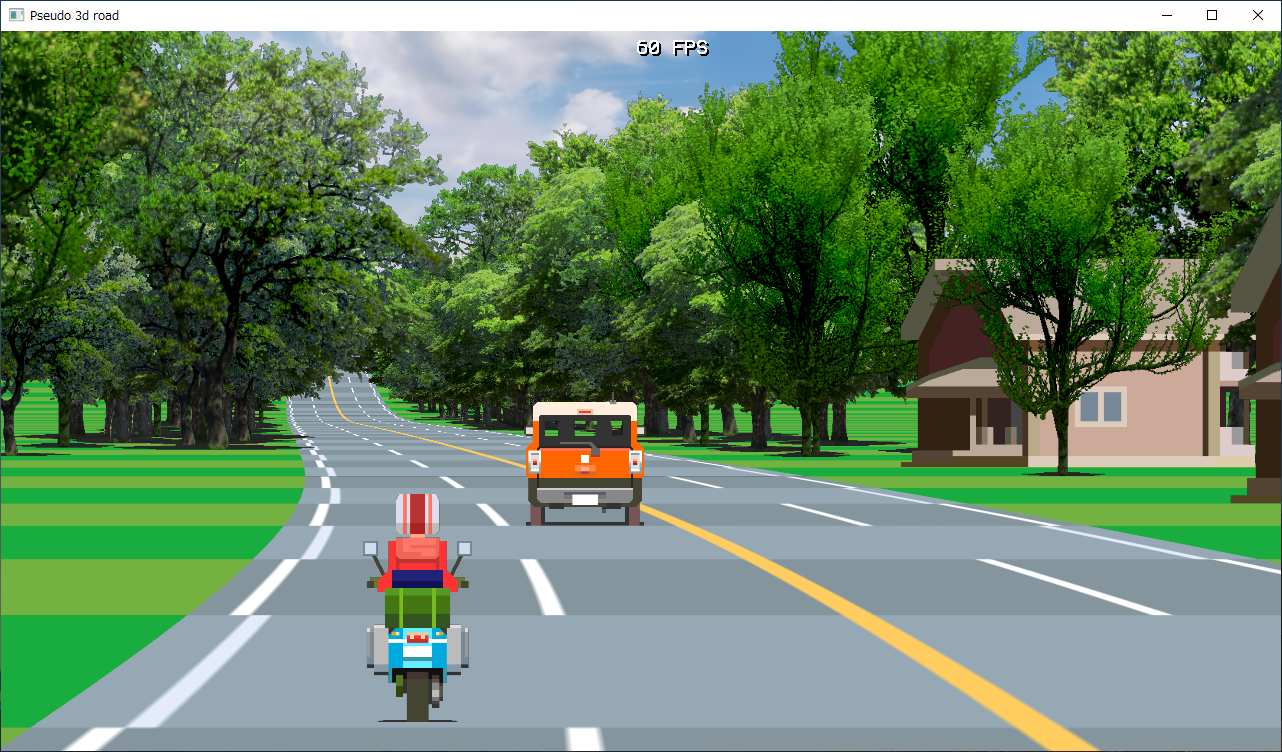
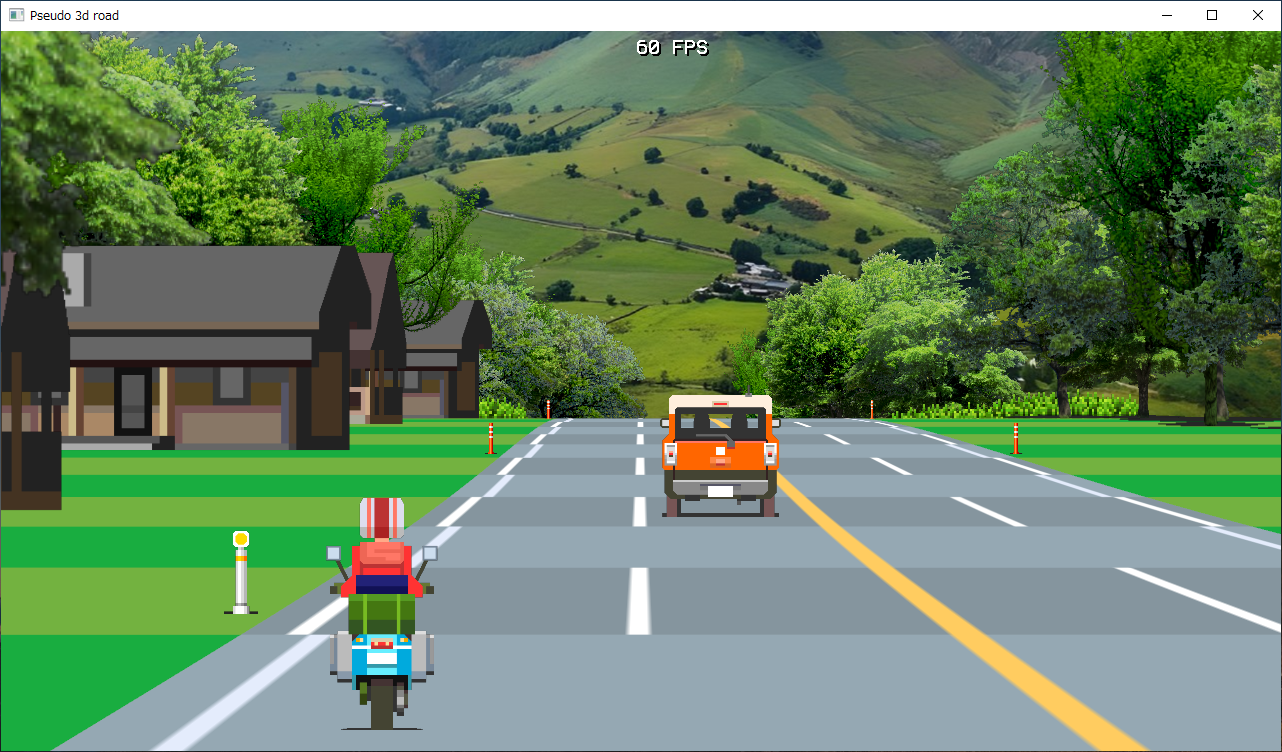
* add screemshots * change background images

diff --git a/README.md b/README.md
@@ -13,11 +13,23 @@ Pseudo-3D road drawing sample using C language and OpenGL.
 Screenshots
 -----------
 
+### 02_ps3d
+
 ![02_ps3d_ss.png](./screenshots/02_ps3d_ss.png)
+
+### 03_ps3d_tex
 
 ![03_ps3d_tex_ss.png](./screenshots/03_ps3d_tex_ss.png)
 
+### 04_ps3d_bb
+
 ![04_ps3d_bb_ss.png](./screenshots/04_ps3d_bb_ss.png)
+
+![04_ps3d_bb_ss2.png](./screenshots/04_ps3d_bb_ss2.png)
+
+![04_ps3d_bb_ss3.png](./screenshots/04_ps3d_bb_ss3.png)
+
+![04_ps3d_bb_ss4.png](./screenshots/04_ps3d_bb_ss4.png)
 
 Environment
 -----------
@@ -25,8 +37,7 @@ Environment
 ### Windows
 
 * Windows10 x64 22H2
-* MinGW (gcc 9.2.0, OSDN ver)
-* MSYS2 (gcc 13.2.0)
+* MinGW (gcc 9.2.0, OSDN ver) / MSYS2 (gcc 13.2.0)
 * OpenGL
 * [glfw 3.3.9 (glfw-3.3.9.bin.WIN32.zip)](https://github.com/glfw/glfw/releases/tag/3.3.9)
 * [SOIL (Simple OpenGL Image Library) (WebArchive)](https://web.archive.org/web/20200728145723/http://lonesock.net/soil.html)
@@ -34,11 +45,10 @@ Environment
 ### Ubuntu Linux
 
 * Ubuntu Linux 20.04/22.04 LTS
-* gcc 9.4.0 (Ubuntu Linux 20.04 LTS)
-* gcc 11.4.0 (Ubuntu Linux 22.04 LTS)
+* gcc 9.4.0 (Ubuntu Linux 20.04 LTS) / gcc 11.4.0 (Ubuntu Linux 22.04 LTS)
 * OpenGL
 * glfw 3.3.2 (libglfw3-dev)
-* glfw 3.3.6 (libflfw3-dev)
+* glfw 3.3.6 (libglfw3-dev)
 * SOIL 1.07 (libsoil-dev)
 
 ```
@@ -86,4 +96,13 @@ Author
 ------
 
 [mieki256](https://github.com/mieki256)
+
+Background images source
+------------------------
+
+* [Landscape Spring Summer - Free photo on Pixabay - Pixabay](https://pixabay.com/photos/landscape-spring-summer-england-215830/)
+* [Fall Aerial Free Stock CC0 Photo - StockSnap.io](https://stocksnap.io/photo/fall-aerial-ZHYBXNFOB4 "Fall Aerial Free Stock CC0 Photo - StockSnap.io")
+* [Valley Field Landscape - Free photo on Pixabay - Pixabay](https://pixabay.com/photos/valley-field-landscape-meadow-63564/)
+* [Snow covered mountain during daytime photo ? Free Hirzel Image on Unsplash](https://unsplash.com/photos/snow-covered-mountain-during-daytime-lnkaoonau-c "Snow covered mountain during daytime photo ? Free Hirzel Image on Unsplash")
+* [Luberon Gordes Night - Free photo on Pixabay - Pixabay](https://pixabay.com/photos/luberon-gordes-night-france-city-7084098/)
 
